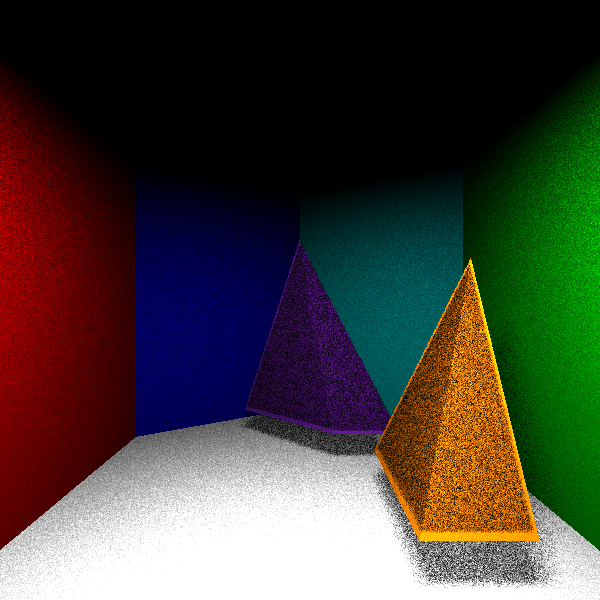
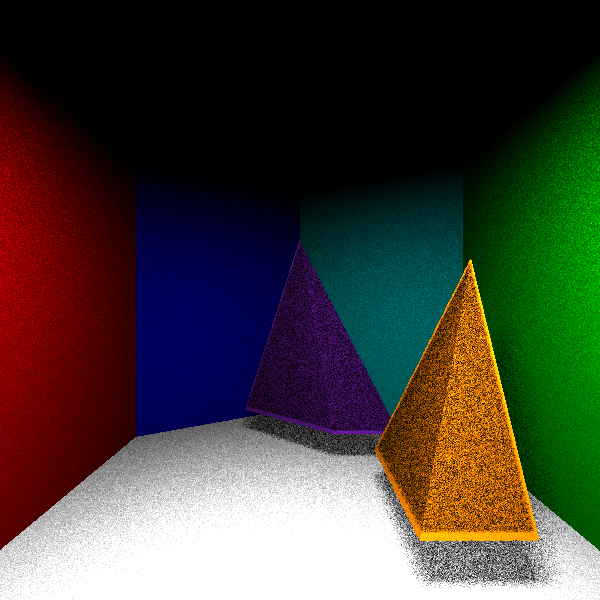
Oh yeas
Digimon

Changed region(s): [[0.0, 0.3, 0.9, 1.0], [0.0, 0.15, 0.18, 0.72]]

diff --git a/source/main.cpp b/source/main.cpp
@@ -12,7 +12,7 @@
 int main() {
     // Creates the scene
     Scene theScene;
-    int aaaaaaaa = 0;
+
     // Adds the room
     theScene.addRoom();
     
@@ -29,13 +29,13 @@ int main() {
     theScene.addCamera(theCamera);
 
     // Add objects (e.g., spheres, triangles) to the scene
-
-    theScene.addPolygon(new Triangle(glm::vec3(4, -4, -4), glm::vec3(4, -2, -4), glm::vec3(7, -2, -4), ColorDBL(0.98, 0.51, 0.01)));
+    /*theScene.addPolygon(new Triangle(glm::vec3(4, -4, -4), glm::vec3(4, -2, -4), glm::vec3(7, -2, -4), ColorDBL(0.98, 0.51, 0.01)));
     theScene.addPolygon(new Triangle(glm::vec3(7, -2, -4), glm::vec3(4, -2, -4), glm::vec3(6, -4, 1), ColorDBL(0.98, 0.51, 0.01)));
     theScene.addPolygon(new Triangle(glm::vec3(4, -2, -4), glm::vec3(4, -4, -4), glm::vec3(6, -4, 1), ColorDBL(0.98, 0.51, 0.01)));
-    theScene.addPolygon(new Triangle(glm::vec3(7, -2, -4), glm::vec3(6, -4, 1), glm::vec3(4, -4, -4), ColorDBL(0.98, 0.51, 0.01)));
-    //theScene.addPolygon(new Triangle(glm::vec3(10, 3, 0), glm::vec3(10, -3, 0), glm::vec3(3, 3, 2), ColorDBL(0.98, 0.51, 0.01)));
-    theScene.addTetra(new Tetrahedron(glm::vec3(9,0,2), glm::vec3(10,2,-4), glm::vec3(8,-1,-4), glm::vec3(8,-3,-4), ColorDBL(0.4, 0.1, 0.6)));
+    theScene.addPolygon(new Triangle(glm::vec3(7, -2, -4), glm::vec3(6, -4, 1), glm::vec3(4, -4, -4), ColorDBL(0.98, 0.51, 0.01)));*/
+    
+    theScene.addTetra(new Tetrahedron(glm::vec3(6, -4, 1), glm::vec3(4, -2, -4), glm::vec3(4,-4,-4), glm::vec3(7, -2, -4), ColorDBL(0.98, 0.51, 0.01)));
+    theScene.addTetra(new Tetrahedron(glm::vec3(9, 0, 2), glm::vec3(10, 2, -4), glm::vec3(8, -1, -4), glm::vec3(8, -3, -4), ColorDBL(0.4, 0.1, 0.6)));
 
     // Adds a light to the scene
     Light theLight = Light(glm::vec3(-2, -2, 5), glm::vec3(-2, 2, 5), glm::vec3(2, -2, 5), glm::vec3(2, 2, 5), glm::vec3(1, 1, 1));
@@ -66,8 +66,6 @@ int main() {
 
                 // If the ray intersects the polygon
                 if (intersectionPoint != glm::vec3(-100, -100, -100)) {
-                    //std::cout<<"intersected normal: "<< glm::to_string(p->normal)<<"\n";
-                    //std::cout<<"The intersection point "<< glm::to_string(intersectionPoint) <<"\n";
 
                     // Initializes the end vertex
                     rayFromPixel.endVertex = intersectionPoint;
@@ -84,17 +82,11 @@ int main() {
                         closestColor = p->color_.mult(obtainedLight);
                         closestPolygon = p; // Update the closest polygon
                     }
-                    else{
-                        aaaaaaaa = aaaaaaaa+1;
-                    }
                 }
             }
 
-            //std::cout << closestColor.r << " + " << closestColor.g << " + " << closestColor.b << std::endl;
-
             // Assign the color of the closest intersection
             imagePlane[imageWidth - 1 - row][col] = closestColor;
-
         }
     }
 
@@ -103,6 +95,5 @@ int main() {
     
     theCamera.renderAndSaveImage(outputPath, imageWidth, imageHeight, imagePlane);
     
-    std::cout<<"\n aaaaa"<<aaaaaaaa;
     return 0;
 }

diff --git a/source/ray.cpp b/source/ray.cpp
@@ -29,16 +29,22 @@ ColorDBL Ray::castShadowRay(const Polygon* fromPolygon, const Light& lightsource
         Ray castedShadowRay(this->endVertex, glm::normalize(di));
 
         // Check for intersections with objects in the scene
-        if (lightsource.surface_->PointInPolygon(castedShadowRay) != glm::vec3(-100, -100, -100)) {     //should always be true;
+        if(lightsource.surface_->PointInPolygon(castedShadowRay) != glm::vec3(-100, -100, -100)) {     //should always be true;
+
             int hits = 0;
+
             for(Polygon* p : allPolygons){
+
                 if(p != fromPolygon){
+
                     if(p->PointInPolygon(castedShadowRay) != glm::vec3(-100, -100, -100)){
                         hits++;
                     }
                 }
             }
-            if(hits<=2){
+
+            if( hits <= 2){
+
                 glm::vec3 normal = fromPolygon->getNormal();
                 glm::vec3 lightDirection = glm::normalize(p - this->endVertex);
                 

diff --git a/source/polygon.cpp b/source/polygon.cpp
@@ -102,13 +102,7 @@ glm::vec3 Triangle::getNormal() const{
     normal = glm::normalize(normal);
     return normal;
 }
-//Assignment operator
-/*Triangle& Triangle::operator=(const Triangle& other) {
-    if (this != &other) {  // Avoid self-assignment
-        this->vertices = other.vertices;    //assign vertecies from other to this
-    }
-    return *this;
-}*/
+
 // tetrahedra subclass----------------------------------------------------------------------
 glm::vec3 Tetrahedron::pointOnTetra(const Ray& ray) {
     /*for(Triangle* t : faces){
